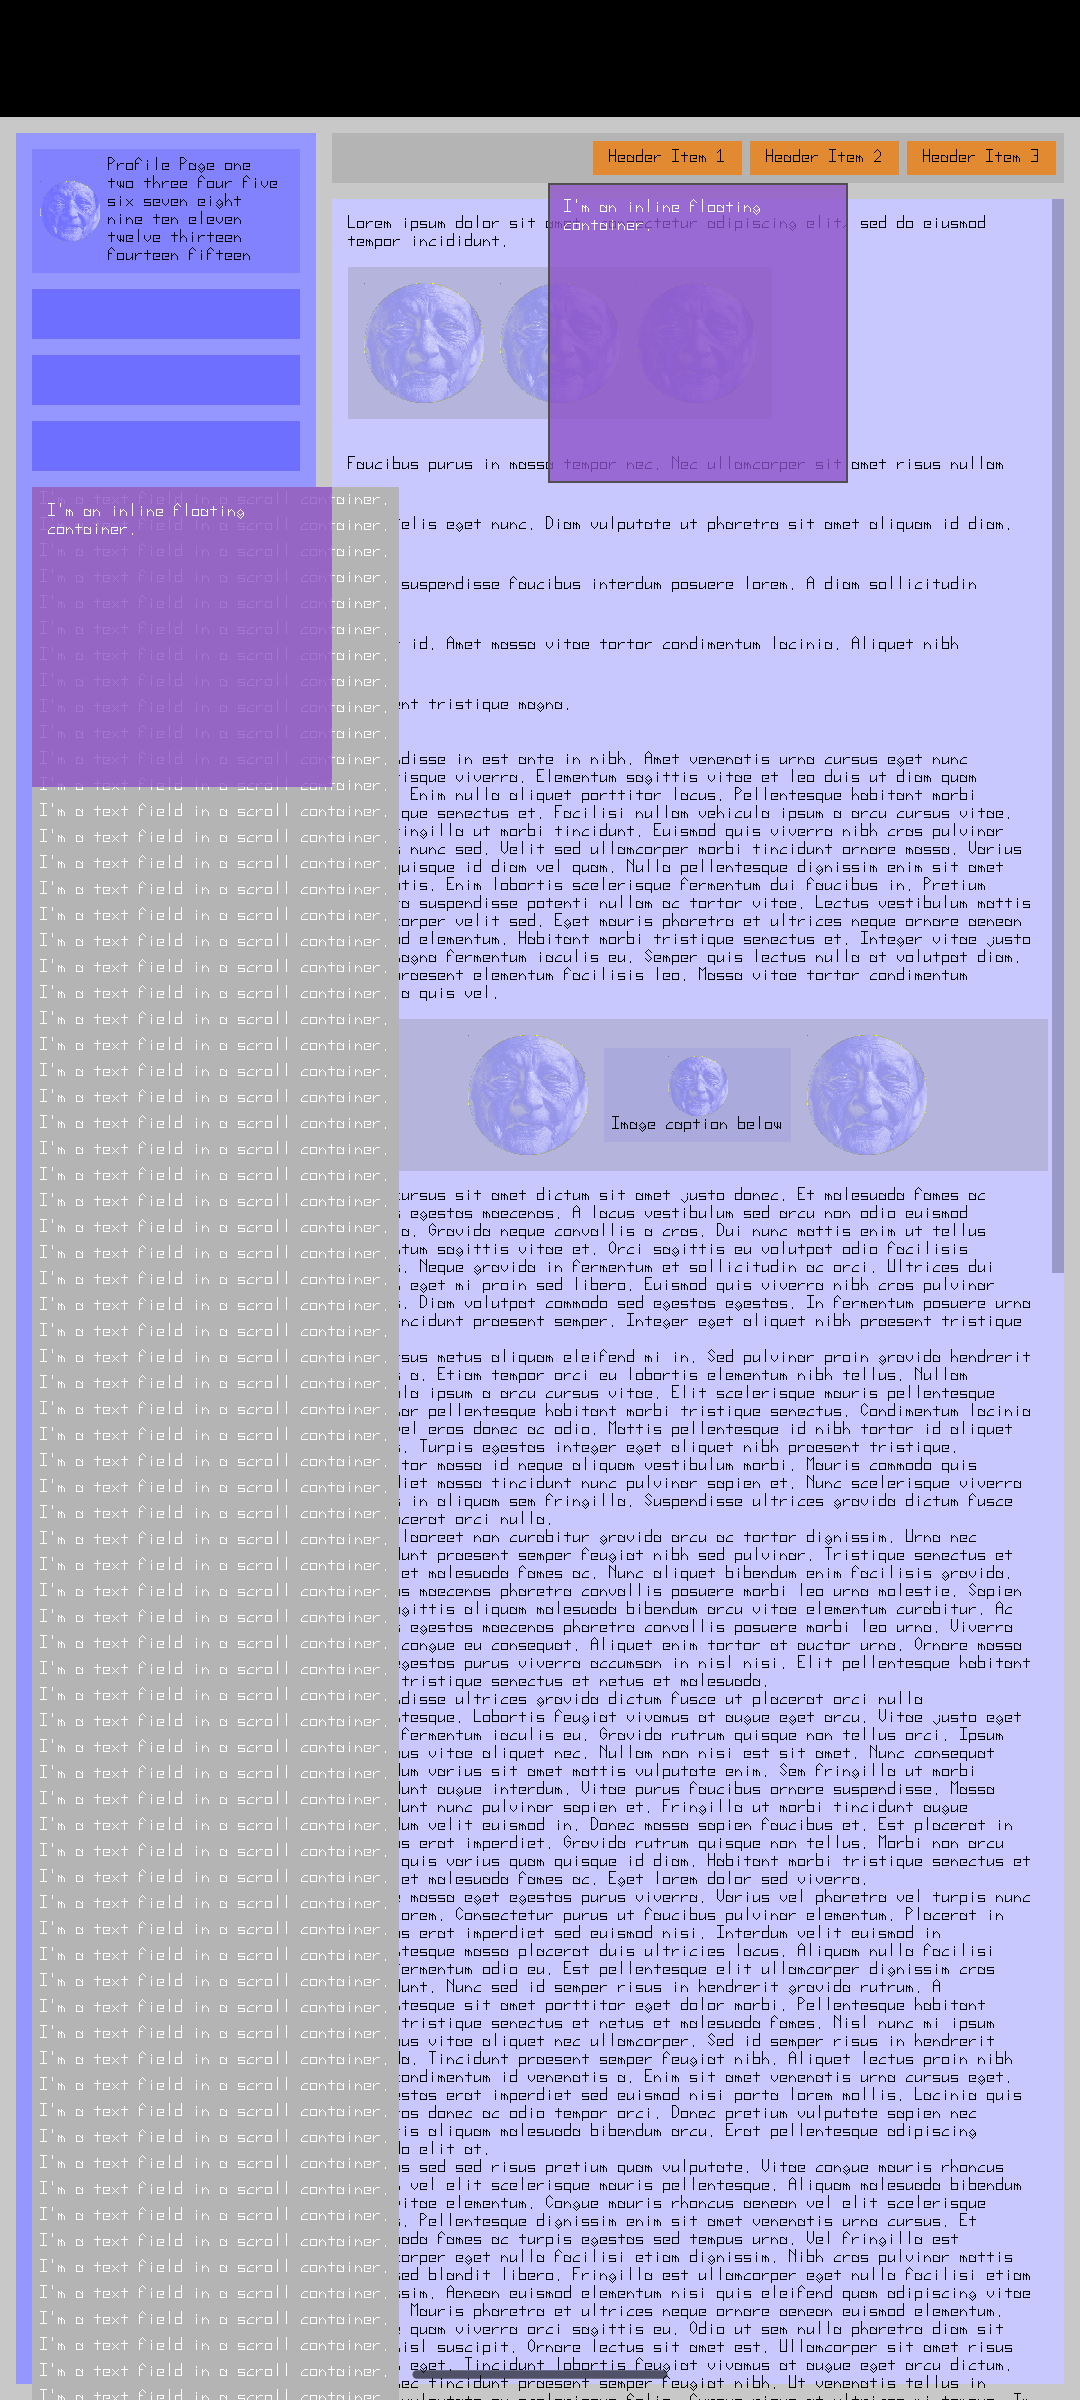
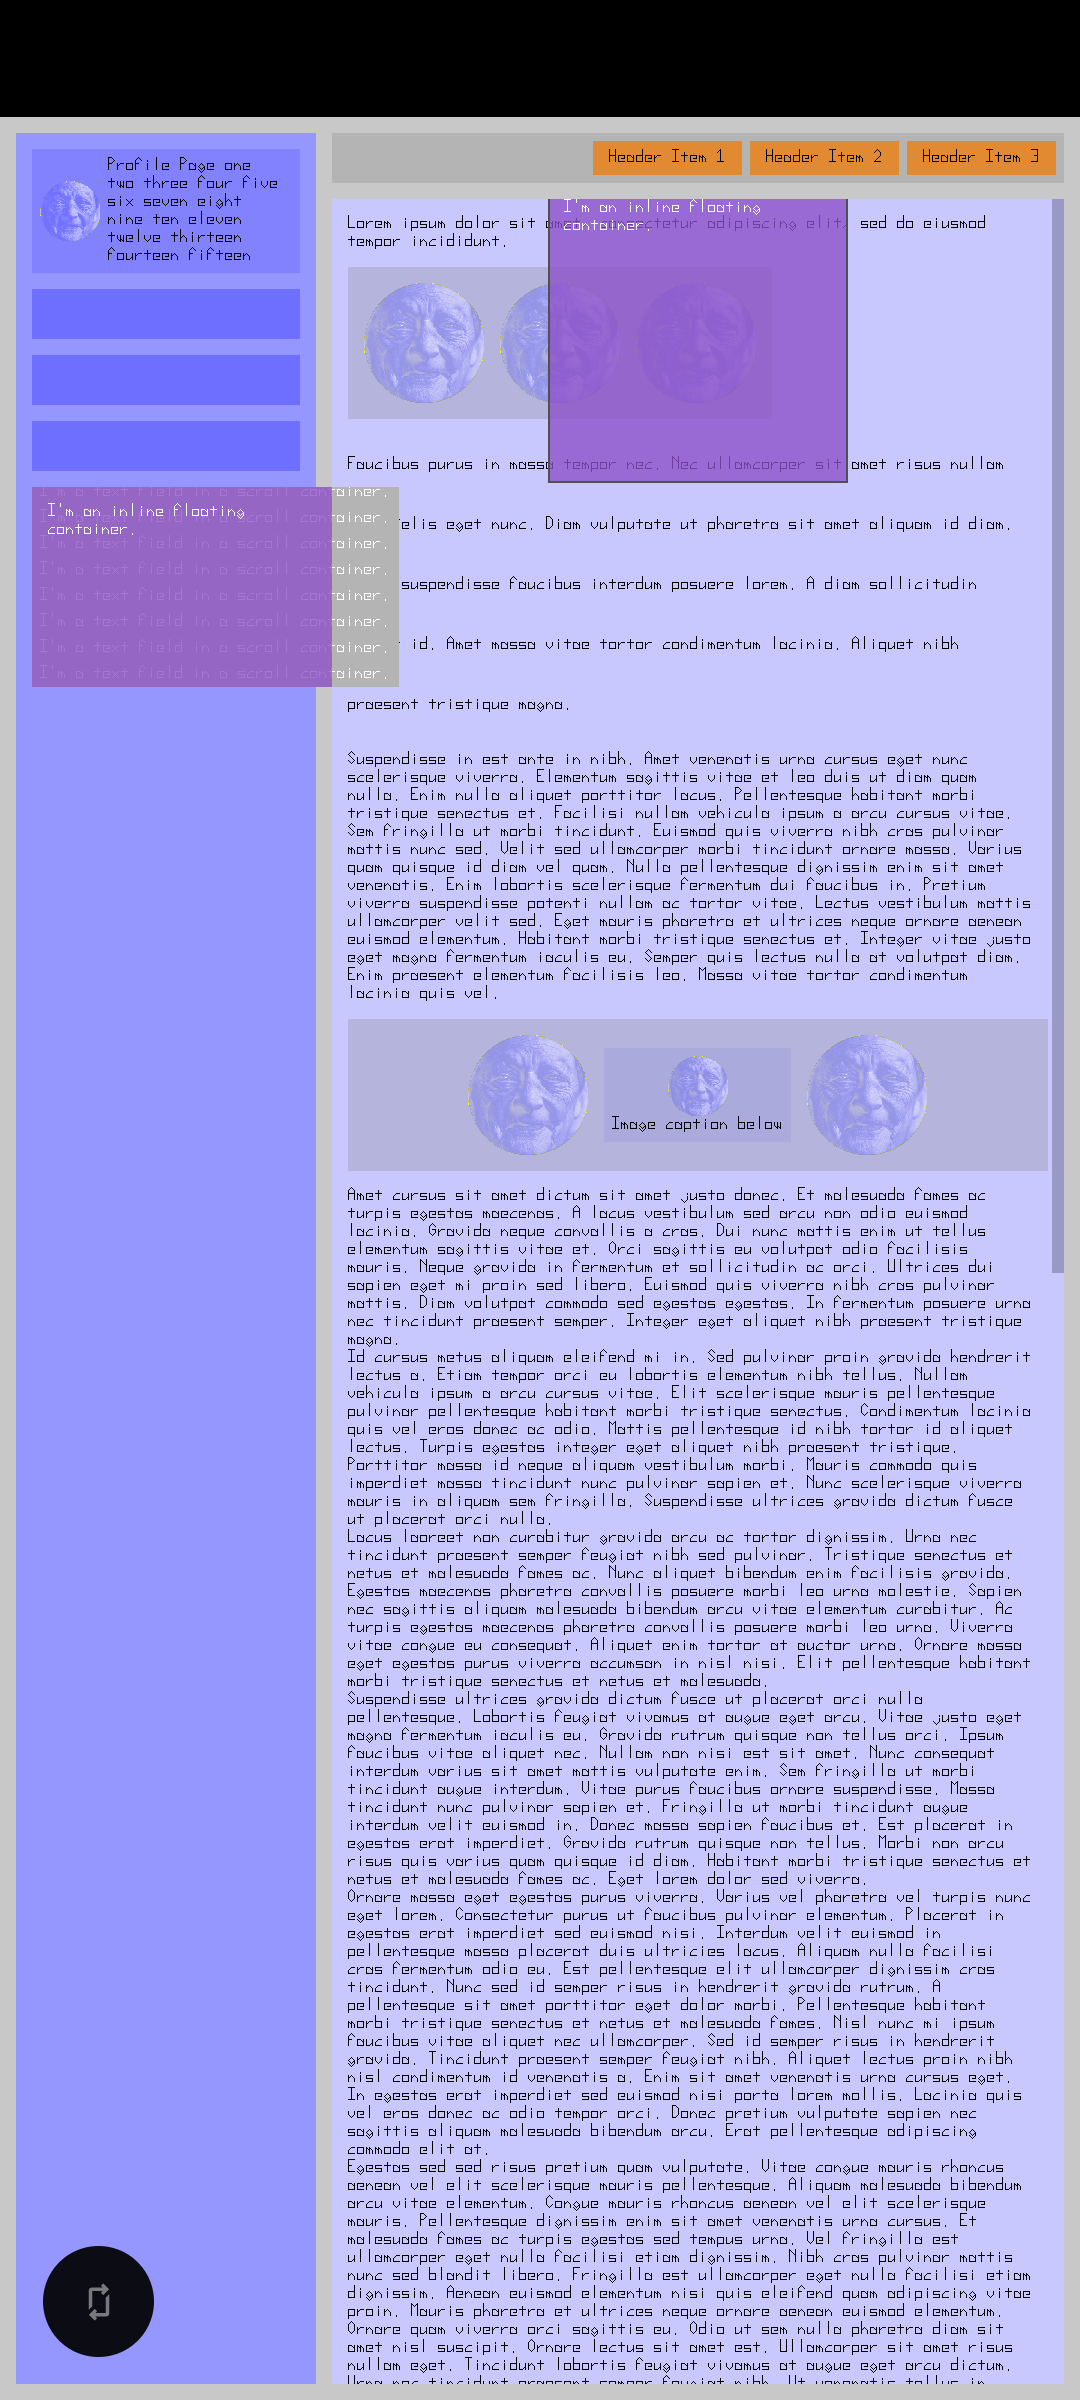
Scissor actually works now

Changed region(s): [[0.0306, 0.2188, 0.6111, 1.0], [0.5194, 0.0625, 0.7944, 0.0938]]

diff --git a/clay_renderer_cnfg.c b/clay_renderer_cnfg.c
@@ -82,6 +82,7 @@ void Clay_CNFG_Render(short width, short height, Clay_RenderCommandArray renderC
                 CNFGPenX = boundingBox.x; CNFGPenY = boundingBox.y;
                 CNFGColor( CLAY_COLOR_TO_CNFG_COLOR(renderCommand->config.textElementConfig->textColor) );
                 CNFGDrawText(cloned, pixelSize);
+                CNFGFlushRender();
                 
                 free(cloned);
                 break;
@@ -102,23 +103,25 @@ void Clay_CNFG_Render(short width, short height, Clay_RenderCommandArray renderC
                 }
             
                 CNFGBlitImage( resized, boundingBox.x, boundingBox.y, boundingBox.width, boundingBox.height);
+                CNFGFlushRender();
                 
                 free(resized);
                 break;
             }
             case CLAY_RENDER_COMMAND_TYPE_SCISSOR_START: {
-                //glScissor((int)roundf(boundingBox.x), height - (int)roundf(boundingBox.y + boundingBox.height), (int)roundf(boundingBox.width), (int)roundf(boundingBox.height));
-                //glEnable(GL_SCISSOR_TEST);
+                glScissor((int)roundf(boundingBox.x), height - (int)roundf(boundingBox.y + boundingBox.height), (int)roundf(boundingBox.width), (int)roundf(boundingBox.height));
+                glEnable(GL_SCISSOR_TEST);
                 break;
             }
             case CLAY_RENDER_COMMAND_TYPE_SCISSOR_END: {
-                //glDisable(GL_SCISSOR_TEST);
+                glDisable(GL_SCISSOR_TEST);
                 break;
             }
             case CLAY_RENDER_COMMAND_TYPE_RECTANGLE: {
                 Clay_RectangleElementConfig *config = renderCommand->config.rectangleElementConfig;
                 
                 CNFG_DrawRectangle(boundingBox.x, boundingBox.y, boundingBox.width, boundingBox.height, CLAY_COLOR_TO_CNFG_COLOR(config->color));
+                CNFGFlushRender();
 
 		        if (config->cornerRadius.topLeft > 0) {
                     //TODO
@@ -155,6 +158,8 @@ void Clay_CNFG_Render(short width, short height, Clay_RenderCommandArray renderC
                 if (config->cornerRadius.bottomRight > 0) {
                     //TODO DrawRing((Vector2) { roundf(boundingBox.x + boundingBox.width - config->cornerRadius.bottomRight), roundf(boundingBox.y + boundingBox.height - config->cornerRadius.bottomRight) }, roundf(config->cornerRadius.bottomRight - config->bottom.width), config->cornerRadius.bottomRight, 0.1, 90, 10, CLAY_COLOR_TO_RAYLIB_COLOR(config->bottom.color));
                 }
+                
+                CNFGFlushRender();
                 break;
             }
             case CLAY_RENDER_COMMAND_TYPE_CUSTOM: {
